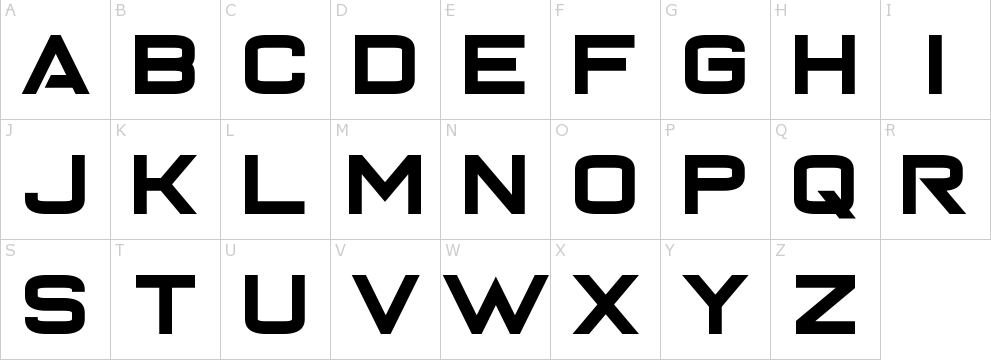
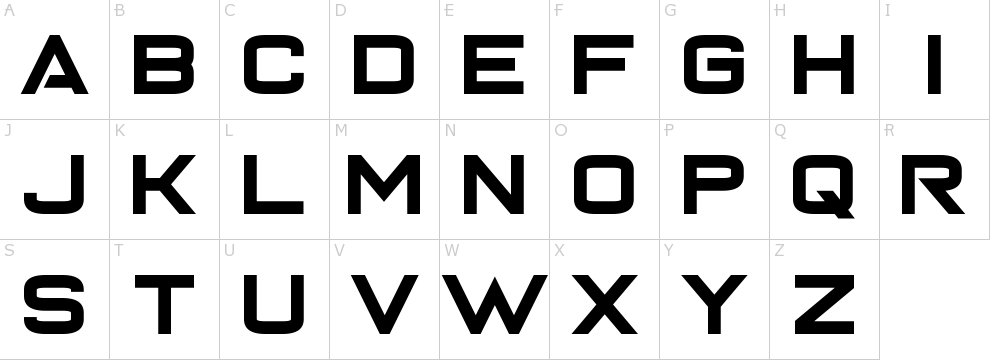
add lower case and extra chars

diff --git a/src/_scene.cpp b/src/_scene.cpp
@@ -110,7 +110,9 @@ void _Scene::initGL()
     menuMsc->initSounds();
     menuMsc->playMusic("sounds/04 GARAGE TALK.mp3");
 
-    myText->textInit("images/fonts/upper.png",9,3);
+    textUpper->textInit("images/fonts/upper.png",9,3);
+    textLower->textInit("images/fonts/lower.png",9,3);
+    textNum->textInit("images/fonts/numEtc.png",9,3);
 
     //bool res = obj->loadOBJ("models/cube.obj",vertices,uvs,normals);
 
@@ -285,7 +287,13 @@ void _Scene::drawScene()
             helpMenuReturn.drawButton(width/10,height/10,myCol->isPlanoCol(mousePos,helpMenuReturn.pos,0,0,1.8,1.0));
             if (helpMenuReturn.clicked) { helpMenuReturn.clicked = false; helpMenu = false; }
         }
-        myText->drawText("TEST TEXT",0.2);
+        glPushMatrix();
+            textUpper->drawText("TEST TEXT",0.2);
+            glTranslatef(0,-0.2,0);
+            textLower->drawText("TEST LOWER",0.2);
+            glTranslatef(0,-0.2,0);
+            textNum->drawText("ABCDE",0.2);
+        glPopMatrix();
         break;
 
     case landing:

diff --git a/src/_textDisplay.cpp b/src/_textDisplay.cpp
@@ -36,15 +36,14 @@ void _textDisplay::drawText(char* str, float fontSize)
     for (int i = 0; i < strlen(str); i++) {
         if (isalpha(str[i])) idx = str[i] - 'A';
         else idx = 26;      //space
-        //if (isdigit(str[i])) idx = str[i] - '0' + 55;
 
         y = (idx / w);
         x = idx - (y * w);
 
-        xMin = (float)x/(float)w        +   (0.1/(float)w);
-        xMax = xMin + 0.7 /(float)w;//     -   (0.4/(float)w);
+        xMin = (float)x/(float)w        +   (0.05/(float)w);
+        xMax = xMin + 0.9 /(float)w;
         yMin = (float)y/(float)h        +   (0.2/(float)h);
-        yMax = yMin + 0.7 / (float)h;//    -   (0.4/(float)h);
+        yMax = yMin + 0.7 / (float)h;
         glPushMatrix();
         glTranslatef((i + 1) * 0.8,0,-5.0);
         glBegin(GL_QUADS);

diff --git a/include/_scene.h b/include/_scene.h
@@ -44,7 +44,9 @@ class _Scene
         _player *plyr = new _player();
         _3DModelLoader *obstacleMdl = new _3DModelLoader();
         _objLoader *obj = new _objLoader();
-        _textDisplay *myText = new _textDisplay();
+        _textDisplay *textUpper = new _textDisplay();
+        _textDisplay *textLower = new _textDisplay();
+        _textDisplay *textNum = new _textDisplay();
         _obstacle obstcls[30];
 
         _skyBox *carShop = new _skyBox();
